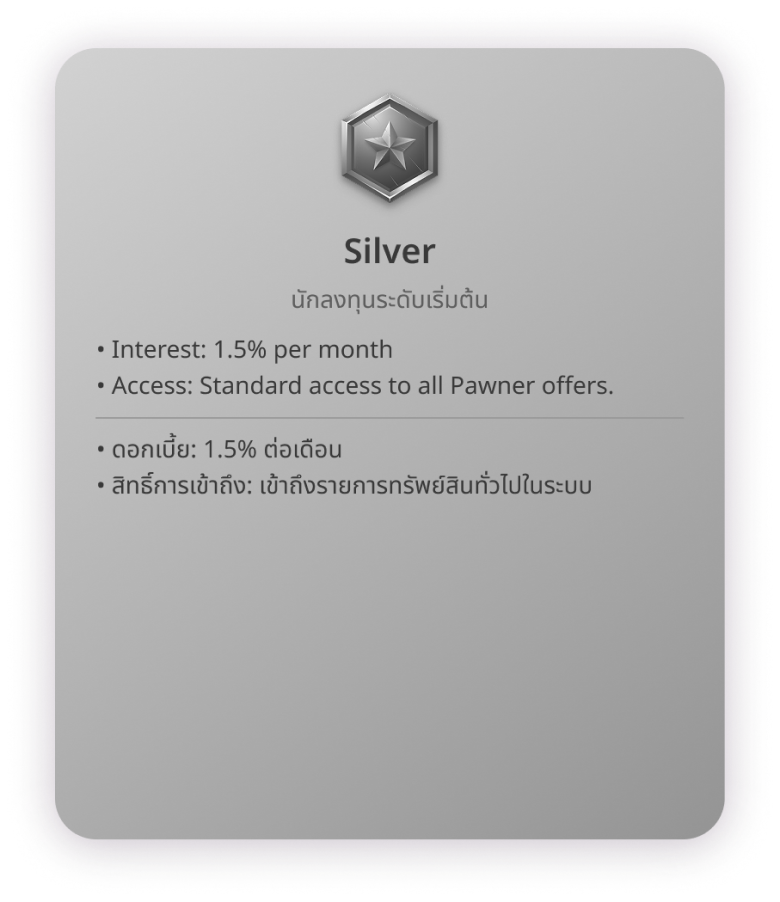
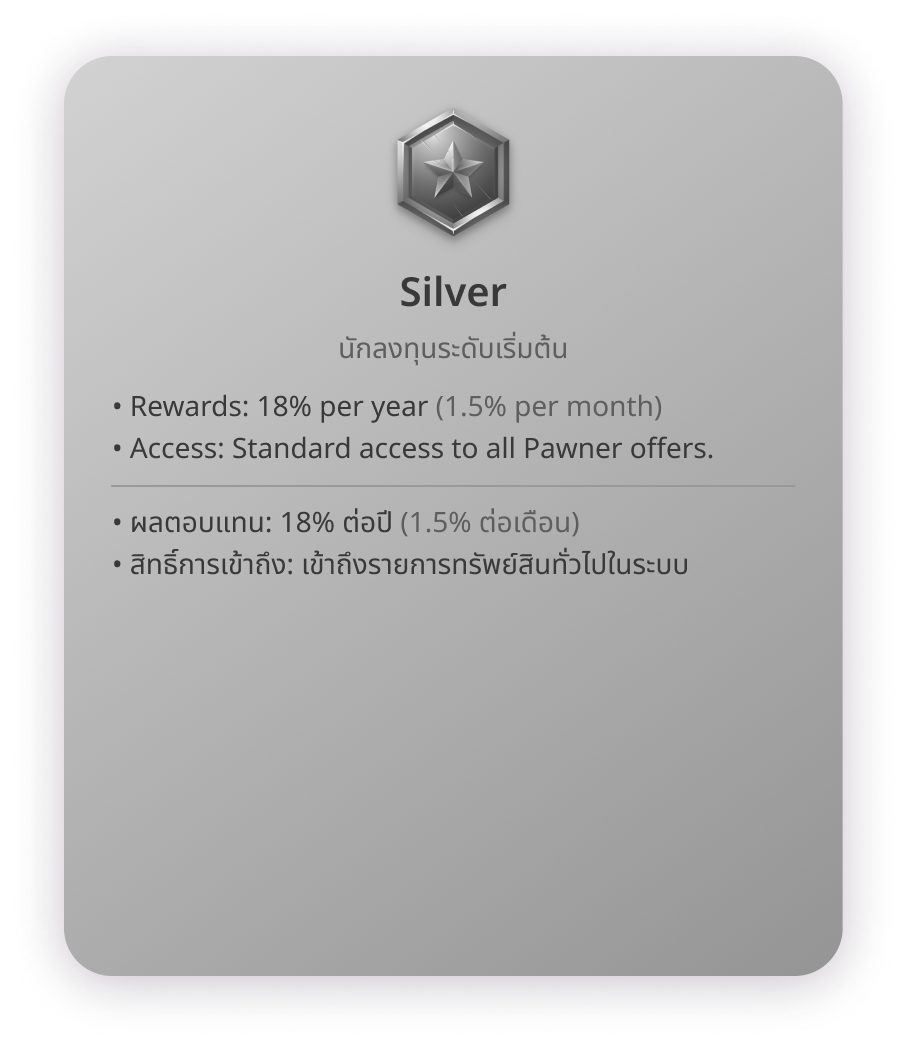
ปรับ drop-point

Changed region(s): [[0.1231, 0.3725, 0.7385, 0.4035], [0.1538, 0.4656, 0.4615, 0.5588], [0.4923, 0.4967, 0.6462, 0.5588]]

diff --git a/app/droppoint-verify/page.tsx b/app/droppoint-verify/page.tsx
@@ -4,7 +4,7 @@ import { useState, useEffect, Suspense, useRef } from 'react';
 import { useRouter, useSearchParams } from 'next/navigation';
 import { useLiff } from '@/lib/liff/liff-provider';
 import axios from 'axios';
-import { Camera, Check, X, Upload } from 'lucide-react';
+import { Camera, Check, X } from 'lucide-react';
 import ImageCarousel from '@/components/ImageCarousel';
 import PinModal from '@/components/PinModal';
 import { getPinSession } from '@/lib/security/pin-session';
@@ -48,6 +48,24 @@ function DropPointVerifyContent() {
   const [bagNumber, setBagNumber] = useState('');
   const [pinModalOpen, setPinModalOpen] = useState(false);
   const pendingActionRef = useRef<((token: string) => void) | null>(null);
+
+  const requiredCheckFields: Array<keyof typeof verificationData> = [
+    'brand_correct',
+    'model_correct',
+    'capacity_correct',
+    'color_match',
+    'functionality_ok',
+    'mdm_lock_status',
+  ];
+
+  const hasIncompleteChecks = requiredCheckFields.some((field) => verificationData[field] === null);
+  const hasAnyMismatch = requiredCheckFields.some((field) => verificationData[field] === false);
+  const expectedConditionScore = Number(contract?.items?.item_condition || 0);
+  const isConditionGapTooHigh = Number.isFinite(expectedConditionScore)
+    ? verificationData.condition_score < (expectedConditionScore - 10)
+    : false;
+  const mustReject = hasAnyMismatch || isConditionGapTooHigh;
+  const canApprove = !mustReject && !hasIncompleteChecks && isConfirmed && !!bagNumber.trim();
 
   useEffect(() => {
     if (contractId) {
@@ -114,6 +132,16 @@ function DropPointVerifyContent() {
   const submitVerification = async (result: 'APPROVED' | 'REJECTED', pinToken: string) => {
     if (!profile?.userId) {
       alert('กรุณาเข้าสู่ระบบ LINE');
+      return;
+    }
+
+    if (result === 'APPROVED' && mustReject) {
+      alert('พบข้อมูลไม่ตรงหรือสภาพต่ำกว่าที่กำหนด ต้องส่งคืนเท่านั้น');
+      return;
+    }
+
+    if (result === 'APPROVED' && hasIncompleteChecks) {
+      alert('กรุณาตรวจสอบข้อมูลให้ครบทุกข้อก่อนยืนยัน');
       return;
     }
 
@@ -331,26 +359,16 @@ function DropPointVerifyContent() {
             <span className="text-gray-500 text-sm">{contract.items?.item_condition}%</span>
           </div>
 
-          <div className="px-1 relative h-6 mb-2">
+          <div className="px-1">
             <input
               type="range"
               min="0"
               max="100"
               value={verificationData.condition_score}
               onChange={(e) => setVerificationData({ ...verificationData, condition_score: parseInt(e.target.value) })}
-              className="w-full absolute z-20 opacity-0 cursor-pointer h-6"
+              className="w-full accent-[#365314]"
             />
-            <div className="absolute top-1/2 left-0 right-0 h-1 bg-gray-200 rounded-full -translate-y-1/2"></div>
-            <div
-              className="absolute top-1/2 left-0 h-1 bg-[#365314] rounded-full -translate-y-1/2"
-              style={{ width: `${verificationData.condition_score}%` }}
-            ></div>
-            <div
-              className="absolute top-1/2 w-6 h-6 bg-white border border-gray-200 rounded-full shadow-md -translate-y-1/2 z-10"
-              style={{ left: `calc(${verificationData.condition_score}% - 12px)` }}
-            ></div>
-
-            <div className="flex justify-between text-[10px] text-gray-400 mt-4 pt-2">
+            <div className="flex justify-between text-[10px] text-gray-400 mt-1">
               <span>0%</span>
               <span>100%</span>
             </div>
@@ -360,6 +378,11 @@ function DropPointVerifyContent() {
             <span className="text-gray-500 text-sm font-medium">สภาพที่ตรวจ</span>
             <span className="text-gray-800 text-sm font-bold">{verificationData.condition_score}%</span>
           </div>
+          {isConditionGapTooHigh && (
+            <p className="text-[11px] text-red-600 mt-2">
+              สภาพต่ำกว่าที่ลูกค้าระบุเกิน 10% ต้องส่งคืนเท่านั้น
+            </p>
+          )}
         </div>
 
         <div className="h-px bg-gray-100 my-4"></div>
@@ -462,26 +485,34 @@ function DropPointVerifyContent() {
             />
             <span className="text-sm text-gray-700 font-medium">ข้อมูลทั้งหมดถูกตรวจสอบเรียบร้อยแล้ว</span>
           </label>
+          {hasIncompleteChecks && (
+            <p className="text-[11px] text-amber-600 mt-2">กรุณาเลือกผลตรวจสอบให้ครบทุกหัวข้อก่อนดำเนินการ</p>
+          )}
+          {mustReject && (
+            <p className="text-[11px] text-red-600 mt-2">พบข้อมูลไม่ตรง ต้องทำรายการส่งคืน</p>
+          )}
         </div>
 
         <div className="space-y-3">
-          <button
-            onClick={() => handleVerificationSubmit('APPROVED')}
-            disabled={submitting || !isConfirmed}
-            className="w-full bg-[#365314] hover:bg-[#2d4610] text-white rounded-2xl py-3 flex flex-col items-center justify-center shadow-sm transition-colors active:scale-[0.98] disabled:opacity-50"
-          >
-            <span className="text-base font-bold">{submitting ? 'กำลังดำเนินการ...' : 'ยืนยัน'}</span>
-            <span className="text-[10px] font-light opacity-80">Confirm</span>
-          </button>
-
-          <button
-            onClick={() => handleVerificationSubmit('REJECTED')}
-            disabled={submitting}
-            className="w-full bg-white border border-[#EF4444] hover:bg-red-50 text-[#EF4444] rounded-2xl py-3 flex flex-col items-center justify-center transition-colors active:scale-[0.98] disabled:opacity-50"
-          >
-            <span className="text-base font-bold">ส่งคืน</span>
-            <span className="text-[10px] font-light opacity-80">Return</span>
-          </button>
+          {mustReject ? (
+            <button
+              onClick={() => handleVerificationSubmit('REJECTED')}
+              disabled={submitting}
+              className="w-full bg-white border border-[#EF4444] hover:bg-red-50 text-[#EF4444] rounded-2xl py-3 flex flex-col items-center justify-center transition-colors active:scale-[0.98] disabled:opacity-50"
+            >
+              <span className="text-base font-bold">{submitting ? 'กำลังดำเนินการ...' : 'ส่งคืน'}</span>
+              <span className="text-[10px] font-light opacity-80">Return</span>
+            </button>
+          ) : (
+            <button
+              onClick={() => handleVerificationSubmit('APPROVED')}
+              disabled={submitting || !canApprove}
+              className="w-full bg-[#365314] hover:bg-[#2d4610] text-white rounded-2xl py-3 flex flex-col items-center justify-center shadow-sm transition-colors active:scale-[0.98] disabled:opacity-50"
+            >
+              <span className="text-base font-bold">{submitting ? 'กำลังดำเนินการ...' : 'ยืนยัน'}</span>
+              <span className="text-[10px] font-light opacity-80">Confirm</span>
+            </button>
+          )}
         </div>
 
         <PinModal

diff --git a/app/api/redemptions/upload-slip/route.ts b/app/api/redemptions/upload-slip/route.ts
@@ -106,7 +106,7 @@ export async function POST(request: NextRequest) {
     const dropPointLineId = redemption.contract?.drop_points?.line_id;
     if (dropPointLineId && dropPointLineClient) {
       try {
-        const notificationCard = createDropPointRedemptionCard(redemption, slipUrl);
+        const notificationCard = createDropPointRedemptionCard(redemption);
         await dropPointLineClient.pushMessage(dropPointLineId, notificationCard);
         console.log(`Sent redemption notification to drop point: ${dropPointLineId}`);
       } catch (msgError) {
@@ -128,11 +128,10 @@ export async function POST(request: NextRequest) {
   }
 }
 
-function createDropPointRedemptionCard(redemption: any, slipUrl: string): FlexMessage {
+function createDropPointRedemptionCard(redemption: any): FlexMessage {
   const contract = redemption.contract;
   const item = contract?.items;
   const pawner = contract?.pawners;
-  const investor = contract?.investors;
 
   const deliveryMethodText = {
     'SELF_PICKUP': 'ลูกค้ามารับเอง',
@@ -166,13 +165,6 @@ function createDropPointRedemptionCard(redemption: any, slipUrl: string): FlexMe
         backgroundColor: '#365314',
         paddingAll: 'lg'
       },
-      hero: {
-        type: 'image',
-        url: slipUrl,
-        size: 'full',
-        aspectRatio: '1:1',
-        aspectMode: 'cover'
-      },
       body: {
         type: 'box',
         layout: 'vertical',
@@ -204,16 +196,6 @@ function createDropPointRedemptionCard(redemption: any, slipUrl: string): FlexMe
             type: 'box',
             layout: 'baseline',
             spacing: 'sm',
-            margin: 'lg',
-            contents: [
-              { type: 'text', text: 'ยอดที่ต้องจ่าย:', color: '#666666', size: 'md', flex: 3 },
-              { type: 'text', text: `${redemption.total_amount?.toLocaleString()} บาท`, color: '#365314', size: 'xl', flex: 4, weight: 'bold' }
-            ]
-          },
-          {
-            type: 'box',
-            layout: 'baseline',
-            spacing: 'sm',
             margin: 'md',
             contents: [
               { type: 'text', text: 'การรับของ:', color: '#666666', size: 'sm', flex: 2 },
@@ -232,16 +214,6 @@ function createDropPointRedemptionCard(redemption: any, slipUrl: string): FlexMe
               { type: 'text', text: 'ข้อมูลผู้จำนำ:', color: '#666666', size: 'xs', margin: 'none' },
               { type: 'text', text: `${pawner?.firstname || ''} ${pawner?.lastname || ''}`, color: '#333333', size: 'sm', weight: 'bold', margin: 'sm' },
               { type: 'text', text: `โทร: ${pawner?.phone_number || '-'}`, color: '#666666', size: 'xs', margin: 'sm' }
-            ]
-          },
-          {
-            type: 'box',
-            layout: 'vertical',
-            margin: 'lg',
-            contents: [
-              { type: 'text', text: 'โอนไปยัง (นักลงทุน):', color: '#666666', size: 'xs', margin: 'none' },
-              { type: 'text', text: `${investor?.bank_name || ''} ${investor?.bank_account_no || ''}`, color: '#333333', size: 'sm', weight: 'bold', margin: 'sm' },
-              { type: 'text', text: `ชื่อ: ${investor?.bank_account_name || investor?.firstname + ' ' + investor?.lastname}`, color: '#666666', size: 'xs', margin: 'sm' }
             ]
           }
         ]

diff --git a/app/api/drop-points/returns/confirm/route.ts b/app/api/drop-points/returns/confirm/route.ts
@@ -14,6 +14,13 @@ const investorLineClient = new Client({
   channelSecret: process.env.LINE_CHANNEL_SECRET_INVEST || ''
 });
 
+const dropPointLineClient = process.env.LINE_CHANNEL_ACCESS_TOKEN_DROPPOINT
+  ? new Client({
+      channelAccessToken: process.env.LINE_CHANNEL_ACCESS_TOKEN_DROPPOINT,
+      channelSecret: process.env.LINE_CHANNEL_SECRET_DROPPOINT || '',
+    })
+  : null;
+
 const ALLOWED_STATUSES = ['AMOUNT_VERIFIED', 'PREPARING_ITEM', 'IN_TRANSIT'];
 
 export async function POST(request: NextRequest) {
@@ -171,7 +178,7 @@ export async function POST(request: NextRequest) {
         .from('items')
         .update({
           item_status: 'RETURNED',
-        updated_at: nowIso
+          updated_at: nowIso
         })
         .eq('item_id', redemption.contract.items.item_id);
     }
@@ -180,7 +187,7 @@ export async function POST(request: NextRequest) {
       try {
         await pawnerLineClient.pushMessage(redemption.contract.pawners.line_id, {
           type: 'text',
-          text: `ยืนยันการรับสินค้าจาก Drop Point เรียบร้อยแล้ว\n\nสัญญา: ${redemption.contract.contract_number}\nสินค้า: ${redemption.contract.items?.brand} ${redemption.contract.items?.model}\n\nขอบคุณที่ใช้บริการ Pawnly`
+          text: `ส่งคืนเรียบร้อย\n\nสัญญา: ${redemption.contract.contract_number}\nสินค้า: ${redemption.contract.items?.brand} ${redemption.contract.items?.model}\n\nขอบคุณที่ใช้บริการ Pawnly`
         });
       } catch (msgError) {
         console.error('Error sending to pawner:', msgError);
@@ -191,10 +198,21 @@ export async function POST(request: NextRequest) {
       try {
         await investorLineClient.pushMessage(redemption.contract.investors.line_id, {
           type: 'text',
-          text: `การไถ่ถอนเสร็จสิ้นแล้ว\n\nสัญญา: ${redemption.contract.contract_number}\nกำไรสุทธิ: +${netProfit.toLocaleString()} บาท\n\nขอบคุณที่เป็นส่วนหนึ่งของ Pawnly`
+          text: `ส่งคืนเรียบร้อย\n\nสัญญา: ${redemption.contract.contract_number}\nกำไรสุทธิ: +${netProfit.toLocaleString()} บาท\n\nขอบคุณที่เป็นส่วนหนึ่งของ Pawnly`
         });
       } catch (msgError) {
         console.error('Error sending to investor:', msgError);
+      }
+    }
+
+    if (dropPointLineClient) {
+      try {
+        await dropPointLineClient.pushMessage(lineId, {
+          type: 'text',
+          text: `ส่งคืนเรียบร้อย\n\nสัญญา: ${redemption.contract?.contract_number}\nสินค้า: ${redemption.contract?.items?.brand} ${redemption.contract?.items?.model}`,
+        });
+      } catch (msgError) {
+        console.error('Error sending to drop point:', msgError);
       }
     }
 

diff --git a/app/api/drop-points/verify/route.ts b/app/api/drop-points/verify/route.ts
@@ -91,6 +91,36 @@ export async function POST(request: NextRequest) {
       );
     }
 
+    const requiredBooleanFields = [
+      'brand_correct',
+      'model_correct',
+      'capacity_correct',
+      'color_match',
+      'functionality_ok',
+      'mdm_lock_status',
+    ] as const;
+
+    const hasIncompleteChecks = requiredBooleanFields.some((field) => typeof verificationData?.[field] !== 'boolean');
+    const hasAnyMismatch = requiredBooleanFields.some((field) => verificationData?.[field] === false);
+    const expectedConditionScore = Number(contract.items?.item_condition || 0);
+    const actualConditionScore = Number(verificationData?.condition_score || 0);
+    const isConditionGapTooHigh = Number.isFinite(expectedConditionScore)
+      ? actualConditionScore < (expectedConditionScore - 10)
+      : false;
+
+    if (verificationResult === 'APPROVED' && (hasIncompleteChecks || hasAnyMismatch || isConditionGapTooHigh)) {
+      return NextResponse.json(
+        {
+          error: 'พบข้อมูลไม่ตรงหรือสภาพต่ำกว่าที่กำหนด ต้องส่งคืนเท่านั้น',
+          requiredResult: 'REJECTED',
+          hasIncompleteChecks,
+          hasAnyMismatch,
+          isConditionGapTooHigh,
+        },
+        { status: 400 }
+      );
+    }
+
     // Save verification record
     await supabase
       .from('drop_point_verifications')

diff --git a/app/api/webhook-droppoint/route.ts b/app/api/webhook-droppoint/route.ts
@@ -305,7 +305,7 @@ function createDropPointReturnConfirmCard(redemption: any): FlexMessage {
           align: 'center'
         }, {
           type: 'text',
-          text: 'รอส่งคืนสินค้าให้ลูกค้า',
+          text: 'กดเมื่อมีผู้มารับสินค้าแล้วเท่านั้น',
           size: 'sm',
           color: '#ffffff',
           align: 'center',
@@ -366,7 +366,7 @@ function createDropPointReturnConfirmCard(redemption: any): FlexMessage {
           type: 'button',
           action: {
             type: 'uri',
-            label: 'ตรวจสอบและยืนยันส่งคืน',
+            label: 'ยืนยันการส่งคืน',
             uri: detailUrl
           },
           style: 'primary',

diff --git a/app/investor/page.tsx b/app/investor/page.tsx
@@ -329,7 +329,7 @@ export default function InvestorPage() {
 
           <div className="fade-up mt-10 grid gap-6 justify-items-center sm:gap-8 sm:grid-cols-2 lg:grid-cols-3">
             {investmentLevels.map((tier) => (
-              <div key={tier.title} className="hover-card flex flex-col items-center gap-3">
+              <div key={tier.title} className="flex flex-col items-center gap-3">
                 <Image
                   src={tier.image}
                   alt={tier.alt}
